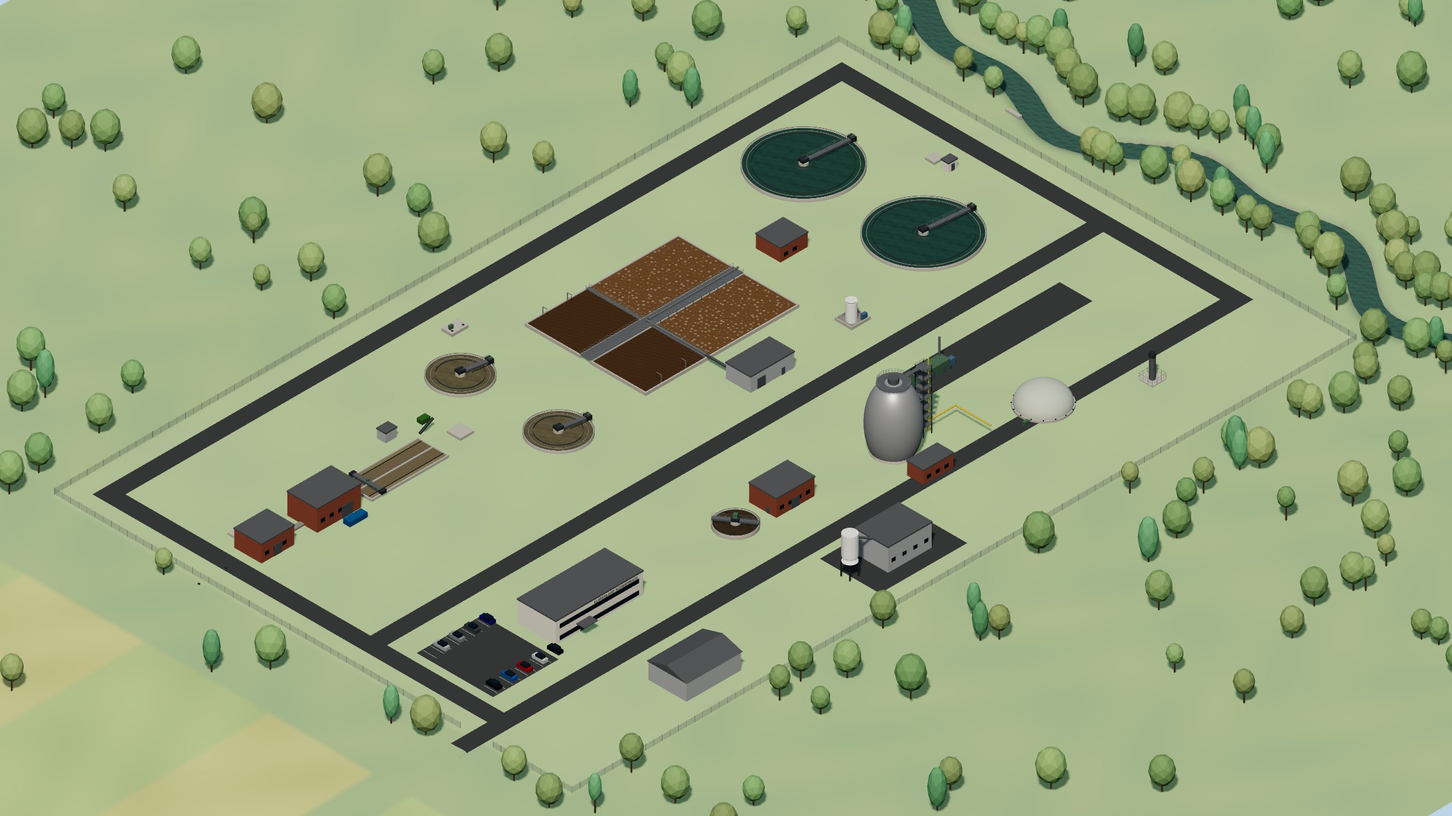
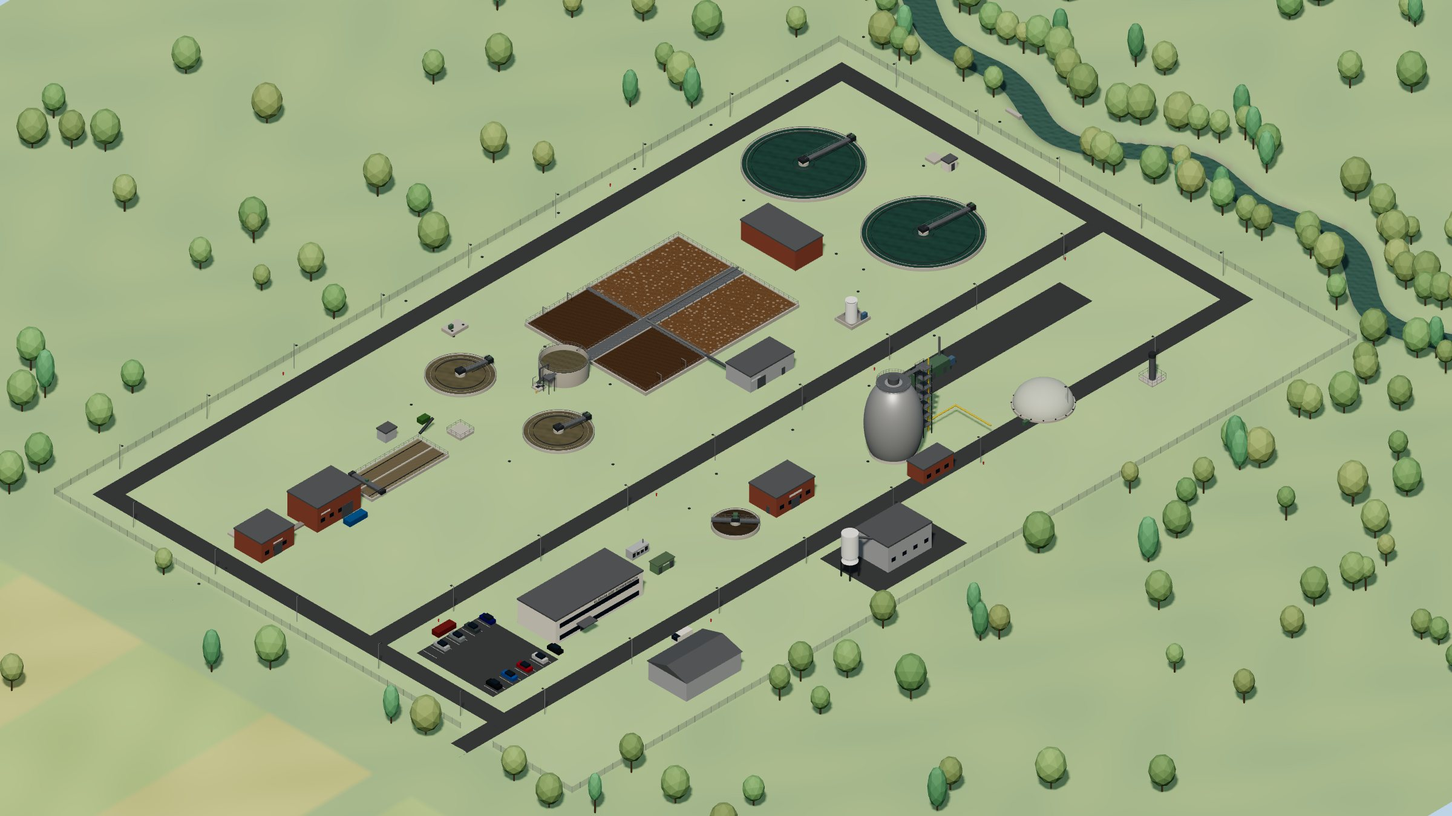
3D-Ansicht: Pumpen mit horizontaler Welle, Armaturenbeschriftung, Ausgleichsbecken AB-1, Außendetails
- RS-Pumpen als horizontale Blockpumpen (Lagerträger, Kupplung mit Schutz, Motor), Druckleitung über dem Motor
- Armaturen exemplarisch an P3.6 beschriftet (Absperrschieber, Manometer, Durchflussmesser, Rückschlagklappe, Motor)
- Innenansicht-Kamera von Süden, Bezeichnungen entzerrt
- AB-1 (D 12,6 m, Soll 3,0 m) mit P2.1-Pumpenschacht, LIC 203, Treppe; Fließwege angepasst; Link zur Füllstandsregelung
- Außen: Schilder, Beckengeländer, Mastleuchten, Hydranten, Schachtdeckel, Trafostation, Netzersatzanlage
- Isometrisches Bild aktualisiert

Claude-Session: https://claude.ai/code/session_013dAWHzMUQzXowbTMMCFfc4

diff --git a/docs/3d/index.html b/docs/3d/index.html
@@ -34,6 +34,7 @@
   #labels{position:fixed;inset:0;pointer-events:none;overflow:hidden}
   .lbl{position:absolute;left:0;top:0;transform:translate(-50%,-100%);background:#16213ed9;border:1px solid #2d4a7a;color:#fff;
        font-size:10.5px;padding:2px 5px;border-radius:4px;white-space:nowrap;pointer-events:auto;cursor:pointer;font-family:monospace}
+  .tag{position:absolute;left:0;top:0;background:#ffffffd9;color:#16213e;font-size:9.5px;padding:1px 4px;border-radius:3px;white-space:nowrap;pointer-events:none;font-family:Arial,Helvetica,sans-serif}
   .lbl.sel{background:#ffd54a;color:#16213e;border-color:#ffd54a;font-weight:bold}
   #legend{position:fixed;right:8px;display:none;background:#16213ee6;border:1px solid #2d4a7a;border-radius:8px;padding:6px 8px;font-size:11px;line-height:1.55}
   #legend i{display:inline-block;width:16px;height:4px;border-radius:2px;margin-right:6px;vertical-align:middle}
@@ -150,6 +151,11 @@ function cyl(parent, rt, rb, h, mat, x, y, z, seg = 32, open = false) {
   m.castShadow = true; m.receiveShadow = true; parent.add(m); return m;
 }
 // Instanz-Sammler (Geländer, Fenster, Pfosten …)
+function beam(parent, p0, p1, w, h, mat) {
+  const a = new THREE.Vector3(...p0), b = new THREE.Vector3(...p1), d = b.clone().sub(a), L = d.length();
+  const m = new THREE.Mesh(boxGeo, mat); m.scale.set(L, h, w); m.position.copy(a).add(b).multiplyScalar(0.5);
+  m.quaternion.setFromUnitVectors(new THREE.Vector3(1, 0, 0), d.normalize()); m.castShadow = m.receiveShadow = true; parent.add(m); return m;
+}
 const inst = {};
 function ib(key, geo, mat, x, y, z, sx, sy, sz, ry = 0, cast = true) {
   (inst[key] ||= { geo, mat, cast, list: [] }).list.push([x, y, z, sx, sy, sz, ry]);
@@ -377,6 +383,35 @@ for (let x = -122; x <= -102; x += 2.8) for (const z of [22.2, 49.8]) ib('mark',
     text: 'Absetzbecken zur Abscheidung absetzbarer organischer Stoffe. Der Primärschlamm wird vom Schildräumer in den Schlammtrichter geschoben und über P6.1 zum Voreindicker gefördert.',
     rows: [['Bauform', '2 Rundbecken, Halbbrückenräumer'], ['Durchmesser', '≈ 18 m *'], ['Primärschlamm', 'P6.1 Exzenterschneckenpumpe, drehzahlgeregelt'], ['Messung', 'QI 105 Trübung/AFS Ablauf VK']], note: true });
 }
+// Ausgleichsbecken AB-1 mit Beschickungspumpe P2.1
+{
+  const g = new THREE.Group(), cx = -8, cz = -40, r = 6.3, top = 4.6, wl = 3.0, V2 = THREE.Vector2;
+  const wall = new THREE.Mesh(new THREE.LatheGeometry([new V2(r, -0.5), new V2(r + 0.35, -0.5), new V2(r + 0.35, top), new V2(r, top), new V2(r, -0.5)], 64), M.concrete);
+  wall.position.set(cx, 0, cz); wall.castShadow = wall.receiveShadow = true; g.add(wall);
+  const w = new THREE.Mesh(new THREE.CircleGeometry(r, 64).rotateX(-Math.PI / 2), waterMat(0x6a6550, 2)); w.position.set(cx, wl, cz); g.add(w);
+  railing(circlePts(cx, cz, r + 0.17, 40), top);
+  // Treppe + Podest (West)
+  const tx = cx - r - 2.2;
+  for (const [dx, dz] of [[-1, -1], [1, -1], [1, 1], [-1, 1]]) box(g, 0.12, top, 0.12, M.steelDark, tx + dx, 0, cz + 3 + dz);
+  box(g, 2.2, 0.1, 2.2, M.grating, tx, top, cz + 3); box(g, 1.6, 0.1, 1.0, M.grating, tx + 1.6, top, cz + 3);
+  beam(g, [tx, 0.1, cz - 1.6], [tx, top, cz + 1.9], 1.0, 0.12, M.grating);
+  railing([[tx - 1.1, cz + 4.1], [tx + 1.1, cz + 4.1]], top); railing([[tx - 0.55, cz - 1.6], [tx - 0.55, cz + 1.9]], 0.1, 1.0);
+  // LIC 203 – Ultraschallsonde am Ausleger
+  box(g, 2.0, 0.12, 0.12, M.galv, cx + r - 0.6, top + 0.5, cz); box(g, 0.12, 0.6, 0.12, M.galv, cx + r + 0.2, top, cz);
+  const so = cyl(g, 0.14, 0.14, 0.3, std(0x2c3e50), cx + r - 1.5, top + 0.2, cz, 16);
+  box(g, 0.3, 0.35, 0.18, std(0xd9c27a), cx + r + 0.6, top - 1.2, cz, 0, false);
+  // P2.1 – Pumpenschacht mit Davit, Druckleitung über die Beckenwand
+  box(g, 2.8, 0.5, 2.8, M.concrete, -17.2, 0, cz);
+  box(g, 1.2, 0.08, 1.0, M.steelDark, -17.4, 0.5, cz); box(g, 0.9, 0.08, 0.8, M.steelDark, -16.4, 0.5, cz + 0.6);
+  box(g, 0.14, 2.6, 0.14, M.galv, -18.3, 0.5, cz - 1.1); box(g, 1.3, 0.12, 0.12, M.galv, -17.7, 3.0, cz - 1.1);
+  const pp = (a, b2) => beam(g, a, b2, 0.32, 0.32, M.steel);
+  pp([-16.2, 0.5, cz - 0.6], [-16.2, top + 0.7, cz - 0.6]); pp([-16.2, top + 0.7, cz - 0.6], [cx - r + 1.2, top + 0.7, cz - 0.6]); pp([cx - r + 1.2, top + 0.7, cz - 0.6], [cx - r + 1.2, wl + 0.6, cz - 0.6]);
+  box(g, 0.5, 0.9, 0.35, std(0xd9c27a), -19.3, 0, cz + 1.2);
+  reg('ab', g, { name: 'Ausgleichsbecken AB-1', kks: 'P2.1 · LIC 203',
+    text: 'Puffert den Ablauf der Vorklärung vor der Belebung. Die drehzahlgeregelte Beschickungspumpe P2.1 hält den Füllstand über den PI-Regler LIC 203 konstant. Da der Bodenablauf zur Belebung vom Wasserstand abhängt, sorgt ein konstanter Füllstand für eine gleichmäßige Beschickung der Belebung und schützt die Nachklärung vor hydraulischer Überlastung.',
+    rows: [['Bauform', 'Rundbecken, D = 12,6 m'], ['Füllstand', 'Sollwert 3,0 m, LIC 203 (PI-Regler)'], ['Beschickung', 'P2.1 Tauchmotorpumpe (KP), FU, ~500 m³/h'], ['Ablauf', 'Bodenablauf zur Belebung (Freigefälle)'], ['Wandhöhe', '≈ 4,6 m *']], note: true,
+    link: ['https://mein-hsbk.github.io/Fuellstandsregelung/', 'Simulation Füllstandsregelung öffnen ▸'] });
+}
 // Mischwasserabschlag
 {
   const g = new THREE.Group();
@@ -457,7 +492,7 @@ scene.add(bubbleMesh);
     rows: [['Bauform', '2 Rundbecken, Halbbrückenräumer, zentraler Einlauf'], ['Durchmesser', '≈ 32 m *'], ['Messung', 'LI 401 Schlammspiegel']], note: true });
 }
 // Rücklaufschlammpumpwerk – mit Innenansicht (Dach abnehmbar)
-const RSI = { subs: [], pick: [], low: [], roof: null, eq: null };
+const RSI = { subs: [], pick: [], low: [], roof: null, eq: null, tags: [] };
 {
   const g = new THREE.Group(), cx = 72, cz = -40, W = 10, D = 20, Hh = 6.2, t = 0.3;
   box(g, W, 0.12, D, M.concreteDark, cx, 0, cz, 0, false);
@@ -493,7 +528,7 @@ const RSI = { subs: [], pick: [], low: [], roof: null, eq: null };
     comps[id] = { id, group: grp, ...info, sub: true, short: label, center: new THREE.Vector3(c.x, 0, c.z), anchor: anchor || new THREE.Vector3(c.x, b.max.y + 0.35, c.z), radius: Math.max(s.x, s.z) / 2 };
     RSI.subs.push(id);
   };
-  const yS = 0.45, xP = cx + 0.4, xSS = cx + 3.4, xDS = cx - 3.6, yD = 2.4;
+  const yS = 0.75, xP = cx + 0.4, xSS = cx + 3.4, xDS = cx - 3.6, yD = 2.4;
   // Saug- und Drucksammler
   pipe(eq, [xSS, yS, cz - 9.6], [xSS, yS, cz + 8.0], 0.17);
   for (const z of [cz - 9.0, cz + 7.4]) pipe(eq, [xSS, yS, z], [cx + W / 2 + 0.6, yS, z], 0.17);
@@ -511,38 +546,46 @@ const RSI = { subs: [], pick: [], low: [], roof: null, eq: null };
       text: 'Magnetisch-induktiver Durchflussmesser im Drucksammler. Er misst den gesamten Rücklaufschlammstrom und liefert den Istwert für die Stufenschaltung.',
       rows: [['Messprinzip', 'MID (magnetisch-induktiv)'], ['Einbauort', 'Drucksammler, vor Abgang zur Belebung'], ['Verwendung', 'Istwert RS-Strom → Stufenschaltung']] });
   }
-  // Pumpen P3.1–P3.6
-  const RUN = [true, true, true, true, false, false];
+  // Pumpen P3.1–P3.6 (horizontale Welle, trocken aufgestellt)
+  const RUN = [true, true, true, true, false, false], sh = yS, yH = 1.75;
+  const guardM = new THREE.MeshStandardMaterial({ color: 0xe0a020, transparent: true, opacity: 0.4, roughness: 0.6 }), midM = std(0x3d5a73, { r: .5, m: .3 });
   for (let i = 0; i < 6; i++) {
     const z = cz - 6.0 + i * 2.5, p = new THREE.Group(), id = `rs_p3${i + 1}`;
-    box(p, 1.1, 0.12, 1.0, M.steelDark, xP, 0.12, z);                                            // Grundrahmen
-    cyl(p, 0.42, 0.44, 0.42, ksb, xP, 0.24, z, 28);                                              // Spiralgehäuse
-    pipe(p, [xP + 0.3, yS, z], [xSS - 0.1, yS, z], 0.085);                                       // Saugleitung DN 125
-    flange(p, [xP + 0.5, yS, z], 0, 0.13); valve(p, cx + 2.3, yS, z); gauge(p, cx + 1.7, yS + 0.08, z);
-    pipe(p, [xP - 0.3, yS, z], [cx - 2.9, yS, z], 0.07);                                         // Druckleitung DN 100
-    flange(p, [xP - 0.5, yS, z], 0, 0.12); gauge(p, xP - 0.75, yS + 0.06, z);
-    pipe(p, [cx - 0.75, yS, z], [cx - 0.35, yS, z], 0.12, std(0x3d5a73, { r: .5, m: .3 }));     // FI 41x
-    box(p, 0.15, 0.2, 0.18, std(0x2c3e50), cx - 0.55, yS + 0.1, z, 0, false);
-    box(p, 0.32, 0.3, 0.28, M.steelDark, cx - 1.5, yS - 0.15, z);                                // Rückschlagklappe
-    box(p, 0.08, 0.08, 0.3, M.steel, cx - 1.42, yS + 0.18, z + 0.18, 0, false);
-    valve(p, cx - 2.25, yS, z);
-    pipe(p, [cx - 2.9, yS, z], [cx - 2.9, yD, z], 0.07); pipe(p, [cx - 2.9, yD, z], [xDS, yD, z], 0.07);
-    for (const [dx, dz] of [[-.2, -.2], [.2, -.2], [.2, .2], [-.2, .2]]) box(p, 0.05, 0.45, 0.05, ksb, xP + dx, 0.66, z + dz, 0, false); // Laterne
-    const cpl = new THREE.Group(); cpl.position.set(xP, 0.88, z); p.add(cpl);
-    const cm = new THREE.Mesh(new THREE.CylinderGeometry(0.12, 0.12, 0.28, 14), M.steel); cpl.add(cm);
-    const mk = new THREE.Mesh(boxGeo, std(0xe6c229)); mk.scale.set(0.05, 0.26, 0.04); mk.position.set(0.12, 0, 0); cpl.add(mk);
+    box(p, 3.4, 0.14, 0.75, M.steelDark, cx - 0.05, 0.12, z);                                   // Grundrahmen
+    pipe(p, [cx + 0.86, sh, z], [cx + 1.26, sh, z], 0.44, ksb);                                  // Spiralgehäuse
+    box(p, 0.4, sh - 0.26, 0.5, ksb, cx + 1.06, 0.26, z, 0, false);                              // Gehäusefuß
+    pipe(p, [cx + 1.26, sh, z], [cx + 1.5, sh, z], 0.11, ksb); flange(p, [cx + 1.52, sh, z], 0, 0.16);
+    pipe(p, [cx + 1.55, sh, z], [xSS - 0.1, sh, z], 0.085);                                    // Saugleitung DN 125
+    valve(p, cx + 2.55, sh, z); gauge(p, cx + 1.95, sh + 0.08, z);
+    pipe(p, [cx + 0.86, sh, z], [cx + 0.34, sh, z], 0.17, ksb);                                  // Lagerträger
+    box(p, 0.3, sh - 0.26 - 0.17, 0.4, ksb, cx + 0.55, 0.26, z, 0, false);
+    const cpl = new THREE.Group(); cpl.position.set(cx + 0.12, sh, z); p.add(cpl);              // Kupplung
+    const cm = new THREE.Mesh(new THREE.CylinderGeometry(0.12, 0.12, 0.24, 14), M.steel); cm.rotation.z = Math.PI / 2; cpl.add(cm);
+    const mk = new THREE.Mesh(boxGeo, std(0xe6c229)); mk.scale.set(0.22, 0.04, 0.05); mk.position.set(0, 0.12, 0); cpl.add(mk);
     if (RUN[i]) spinRS.push(cpl);
-    cyl(p, 0.24, 0.24, 0.06, ksb, xP, 1.08, z, 20);
-    cyl(p, 0.31, 0.31, 0.68, mot, xP, 1.14, z, 24);                                              // Motor 7,5 kW
-    cyl(p, 0.29, 0.29, 0.14, M.steelDark, xP, 1.82, z, 24);                                      // Lüfterhaube
-    box(p, 0.2, 0.18, 0.22, mot, xP - 0.38, 1.5, z, 0, false);                                   // Klemmenkasten
-    box(p, 0.02, 0.12, 0.2, M.galv, xP + 0.32, 1.42, z, 0, false);                               // Typenschild
-    box(p, 0.08, 1.15, 0.08, M.steelDark, cx + 1.25, 0, z + 0.65, 0, false);                     // Vor-Ort-Steuerstelle
-    box(p, 0.28, 0.36, 0.18, std(0xd9c27a), cx + 1.25, 1.15, z + 0.65, 0, false);
-    const lmp = new THREE.Mesh(new THREE.SphereGeometry(0.05, 10, 8), RUN[i] ? lampOn : lampOff); lmp.position.set(cx + 1.25, 1.42, z + 0.75); p.add(lmp);
-    subReg(id, p, `P3.${i + 1}`, null, { name: `Rücklaufschlammpumpe P3.${i + 1}`, kks: `P3.${i + 1} · FI 41${i + 1} · PI 42${i + 1} / PI 43${i + 1}`,
-      text: 'Trocken aufgestellte Freistromradpumpe mit Laterne und aufgesetztem Normmotor. Saugseitig Absperrschieber, druckseitig Durchflussmessung, Rückschlagklappe und Absperrschieber; Manometer vor und hinter der Pumpe.',
+    const gd = new THREE.Mesh(boxGeo, guardM); gd.scale.set(0.42, 0.38, 0.38); gd.position.set(cx + 0.12, sh, z); p.add(gd); // Kupplungsschutz
+    pipe(p, [cx - 0.1, sh, z], [cx - 0.88, sh, z], 0.3, mot);                                    // Motor 7,5 kW
+    pipe(p, [cx - 0.88, sh, z], [cx - 1.04, sh, z], 0.28, M.steelDark);                          // Lüfterhaube
+    box(p, 0.6, sh - 0.3 - 0.26, 0.5, mot, cx - 0.5, 0.26, z, 0, false);                         // Motorfüße
+    box(p, 0.22, 0.18, 0.22, mot, cx - 0.42, sh + 0.28, z, 0, false);                            // Klemmenkasten
+    box(p, 0.2, 0.12, 0.02, M.galv, cx - 0.55, sh - 0.06, z + 0.31, 0, false);                   // Typenschild
+    pipe(p, [cx + 1.06, sh + 0.4, z], [cx + 1.06, yH, z], 0.07); flange(p, [cx + 1.06, sh + 0.5, z], 1, 0.12); // Druckstutzen
+    pipe(p, [cx + 1.06, yH, z], [cx - 2.9, yH, z], 0.07);                                        // Druckleitung DN 100
+    gauge(p, cx + 0.8, yH + 0.06, z);
+    pipe(p, [cx + 0.15, yH, z], [cx + 0.55, yH, z], 0.12, midM); box(p, 0.15, 0.2, 0.18, std(0x2c3e50), cx + 0.35, yH + 0.1, z, 0, false); // FI 41x
+    box(p, 0.32, 0.3, 0.28, M.steelDark, cx - 0.7, yH - 0.15, z); box(p, 0.08, 0.08, 0.3, M.steel, cx - 0.62, yH + 0.18, z + 0.18, 0, false); // RSK
+    valve(p, cx - 1.6, yH, z);
+    pipe(p, [cx - 2.9, yH, z], [cx - 2.9, yD, z], 0.07); pipe(p, [cx - 2.9, yD, z], [xDS, yD, z], 0.07);
+    box(p, 0.08, 1.15, 0.08, M.steelDark, cx + 2.05, 0, z + 0.95, 0, false);                     // Vor-Ort-Steuerstelle
+    box(p, 0.28, 0.36, 0.18, std(0xd9c27a), cx + 2.05, 1.15, z + 0.95, 0, false);
+    const lmp = new THREE.Mesh(new THREE.SphereGeometry(0.05, 10, 8), RUN[i] ? lampOn : lampOff); lmp.position.set(cx + 2.05, 1.42, z + 1.05); p.add(lmp);
+    subReg(id, p, `P3.${i + 1}`, new THREE.Vector3(cx - 1.35, 0.9, z), { name: `Rücklaufschlammpumpe P3.${i + 1}`, kks: `P3.${i + 1} · FI 41${i + 1} · PI 42${i + 1} / PI 43${i + 1}`,
+      text: 'Trocken aufgestellte Freistromradpumpe mit horizontaler Welle, Lagerträger, Kupplung und Normmotor auf gemeinsamem Grundrahmen. Saugseitig Absperrschieber, druckseitig Durchflussmessung, Rückschlagklappe und Absperrschieber; Manometer vor und hinter der Pumpe.',
       rows: [['Pumpe', 'KSB Sewabloc F 100-252, Laufrad ø235'], ['Auslegung', '95 m³/h bei 11,2 m · Betrieb ~80 m³/h bei ~12 m'], ['Motor', 'VEM K21R 132 M4, 7,5 kW, 1455 1/min, IE3'], ['Anlauf', 'Stern-Dreieck, Festdrehzahl'], ['Anschlüsse', 'DN 125 saug / DN 100 druck'], ['Im Bild', RUN[i] ? 'in Betrieb (Beispielzustand)' : 'Bereitschaft (Beispielzustand)']] });
+    if (i === 5) RSI.tags = [
+      ['Absperrschieber', cx + 2.55, sh + 1.0, z], ['Manometer', cx + 1.95, sh + 0.42, z], ['Motor', cx - 0.5, sh + 0.35, z + 0.3],
+      ['Manometer', cx + 0.8, yH + 0.5, z], ['Durchflussmesser', cx + 0.35, yH + 1.05, z], ['Rückschlagklappe', cx - 0.7, yH + 0.3, z + 0.2],
+      ['Absperrschieber', cx - 1.6, yH + 0.85, z]].map(([t, x, y, zz]) => ({ t, v: new THREE.Vector3(x, y, zz) }));
   }
   // P5.1 – Exzenterschneckenpumpe Überschussschlamm
   {
@@ -557,7 +600,7 @@ const RSI = { subs: [], pick: [], low: [], roof: null, eq: null };
     pipe(f, [xSS, yS, z], [xSS - 0.4, yS, z], 0.1); pipe(f, [xSS - 0.4, yS, z], [xSS - 0.4, 1.6, z], 0.1);
     pipe(f, [xSS - 0.4, 1.6, z], [cx - 0.5, 1.6, z], 0.1); pipe(f, [cx - 0.5, 1.6, z], [cx - 0.5, 0.76, z], 0.1);
     pipe(f, [cx + 1.5, 0.7, z], [cx + 1.5, 2.9, z], 0.08); pipe(f, [cx + 1.5, 2.9, z], [cx + 1.5, 2.9, cz - D / 2 - 0.6], 0.08);
-    subReg('rs_p51', f, 'P5.1', null, { name: 'Überschussschlammpumpe P5.1', kks: 'P5.1',
+    subReg('rs_p51', f, 'P5.1', new THREE.Vector3(cx - 0.5, 1.1, cz - 8.7), { name: 'Überschussschlammpumpe P5.1', kks: 'P5.1',
       text: 'Exzenterschneckenpumpe zum Abzug des Überschussschlamms. Die Fördermenge wird über die Drehzahl eingestellt; der Schlamm wird zum Voreindicker VE-1 gefördert.',
       rows: [['Pumpe', 'Seepex BN 52-6L (Exzenterschnecke)'], ['Antrieb', 'Getriebemotor, drehzahlgeregelt (FU)'], ['Ziel', 'Voreindicker VE-1']] });
   }
@@ -580,7 +623,7 @@ const RSI = { subs: [], pick: [], low: [], roof: null, eq: null };
     box(f, 0.5, 0.35, 0.6, std(0xd9a62a, { r: .5, m: .3 }), xP, 4.95, cz - 1.2);
     box(f, 0.03, 1.6, 0.03, M.steelDark, xP, 3.35, cz - 1.2, 0, false);
     const hk = new THREE.Mesh(new THREE.TorusGeometry(0.08, 0.025, 6, 12, Math.PI * 1.4), M.steelDark); hk.position.set(xP, 3.3, cz - 1.2); f.add(hk);
-    subReg('rs_kran', f, 'Kran', new THREE.Vector3(xP, 6.0, cz + 6), { name: 'Laufkatze / Hebezeug', kks: 'Kranbahn über Pumpenreihe',
+    subReg('rs_kran', f, 'Kran', new THREE.Vector3(xP, 5.9, cz - 9.6), { name: 'Laufkatze / Hebezeug', kks: 'Kranbahn über Pumpenreihe',
       text: 'Elektrokettenzug auf einer Kranbahn über der Pumpenreihe. Motor und Laufradeinheit können zur Wartung angehoben und ausgebaut werden, ohne die Rohrleitungen zu demontieren (Back-Pull-Out).',
       rows: [['Einsatz', 'Wartung, Laufrad-/Motortausch'], ['Hinweis', 'Prüfung nach DGUV Vorschrift 52/54']] });
   }
@@ -740,26 +783,87 @@ const RSI = { subs: [], pick: [], low: [], roof: null, eq: null };
   });
   crown.castShadow = trunk.castShadow = true; scene.add(crown, trunk);
 }
+
+// ------------------------------------------------------------------ Außendetails
+function sign(txt, x, y, z, ry = 0, w = 3.4) {
+  const cv = document.createElement('canvas'); cv.width = 512; cv.height = 80; const c = cv.getContext('2d');
+  c.fillStyle = '#f4f4f0'; c.fillRect(0, 0, 512, 80); c.strokeStyle = '#2b3a4a'; c.lineWidth = 6; c.strokeRect(3, 3, 506, 74);
+  c.fillStyle = '#2b3a4a'; c.font = 'bold 40px Arial'; c.textAlign = 'center'; c.textBaseline = 'middle'; c.fillText(txt, 256, 42);
+  const t = new THREE.CanvasTexture(cv); t.colorSpace = THREE.SRGBColorSpace;
+  const m = new THREE.Mesh(new THREE.PlaneGeometry(w, w * 80 / 512), new THREE.MeshStandardMaterial({ map: t, roughness: .6 }));
+  m.position.set(x, y, z); m.rotation.y = ry; scene.add(m);
+}
+sign('Zulaufpumpwerk', -118, 4.2, -34.94);
+sign('Rechengebäude', -101, 5.2, -34.44);
+sign('Gebläsestation', 22, 3.6, 0.56);
+sign('Rücklaufschlammpumpwerk', 77.07, 4.9, -40, Math.PI / 2, 4.2);
+sign('Gerätehaus Schlammbehandlung', -8, 4.4, 45.06, 0, 4.6);
+sign('Schlammentwässerung', -4, 6.2, 70.94, Math.PI, 4.0);
+sign('Faulung', 33.56, 3.4, 58.5, Math.PI / 2, 2.6);
+// Beckengeländer
+railing([[0, -62], [56, -62], [56, -18], [0, -18], [0, -62]], 1.0);
+railing([[-84, -45.5], [-56, -45.5], [-56, -34.5], [-84, -34.5], [-84, -45.5]], 0.8);
+railing([[-48.5, -42.5], [-43.5, -42.5], [-43.5, -37.5], [-48.5, -37.5], [-48.5, -42.5]], 0.8);
+// Mastleuchten entlang der Betriebsstraßen
+{
+  const pts = [];
+  for (let x = -120; x <= 130; x += 32) pts.push([x, -91, 0], [x + 16, 15.5, Math.PI], [x, 65, Math.PI]);
+  for (let z = -70; z <= 50; z += 30) pts.push([-136, z, Math.PI / 2], [144, z, -Math.PI / 2]);
+  for (const [x, z, ry] of pts) {
+    ib('lpole', cylGeo, M.galv, x, 4, z, 0.16, 8, 0.16, 0);
+    const dx = Math.sin(ry) * 0.8, dz = Math.cos(ry) * 0.8;
+    ib('larm', boxGeo, M.galv, x + dx * 0.5, 7.9, z + dz * 0.5, 0.08 + Math.abs(dx), 0.08, 0.08 + Math.abs(dz), 0, false);
+    ib('lhead', boxGeo, M.steelDark, x + dx, 7.85, z + dz, 0.5, 0.14, 0.5, 0, false);
+  }
+}
+// Hydranten
+for (const [x, z] of [[-110, 16], [-30, 16], [50, 16], [120, 16], [-60, 66], [40, 66], [-60, -91], [60, -91]]) {
+  ib('hyd', cylGeo, std(0xc0392b, { r: .5 }), x, 0.45, z, 0.3, 0.9, 0.3, 0);
+  ib('hydc', boxGeo, std(0xc0392b, { r: .5 }), x, 0.65, z, 0.5, 0.14, 0.14, 0, false);
+}
+// Trafostation + Netzersatzanlage
+{
+  const g = scene;
+  box(g, 6, 2.8, 3, std(0x6f8a6a, { r: .7 }), -52, 0, 40); box(g, 6.4, 0.2, 3.4, std(0x5b6f57), -52, 2.8, 40);
+  for (const x of [-54, -50]) box(g, 1.2, 2.1, 0.06, M.door, x, 0, 41.53, 0, false);
+  box(g, 6.1, 2.6, 2.5, M.sheet, -52, 0, 31); cyl(g, 0.15, 0.15, 1.2, M.steel, -50, 2.6, 31, 10);
+  for (let x = -54.5; x <= -50; x += 1.5) box(g, 1.0, 1.2, 0.05, M.steelDark, x, 0.9, 32.27, 0, false);
+  sign('Trafostation', -52, 2.2, 41.57, 0, 2.2); sign('Netzersatzanlage', -52, 2.05, 32.3, 0, 2.6);
+}
+// Probenehmer Zulauf, Dienstfahrzeug, Container
+box(scene, 0.9, 1.6, 0.7, std(0xd5d8db, { r: .6, m: .2 }), -111.3, 0, -46.5);
+box(scene, 5.6, 2.1, 2.1, M.plaster, -71, 0.4, 66.5); box(scene, 1.4, 1.1, 2.0, M.window, -73.3, 1.4, 66.5, 0, false);
+for (const x of [-72.8, -69.2]) for (const z of [65.5, 67.5]) { const w = cyl(scene, 0.38, 0.38, 0.25, M.rubber, x, 0, z, 12); w.rotation.x = Math.PI / 2; w.position.y = 0.38; }
+box(scene, 6.5, 1.6, 2.5, std(0x8a3324, { r: .6, m: .3 }), -112, 0, 20);
 flushInst();
 
 // ------------------------------------------------------------------ Fließwege (Overlay)
 const FLOW = {
-  aw: { n: 'Abwasser', c: 0xa6814f, y: 2.2, p: [[[-160, -40], [-46, -40]], [[-46, -40], [-46, -58], [-37, -58]], [[-46, -40], [-46, -22], [-37, -22]], [[-19, -58], [-6, -58], [-6, -52], [0, -52]], [[-19, -22], [-6, -22], [-6, -28], [0, -28]], [[56, -52], [80, -52], [80, -62], [102, -62]], [[56, -28], [80, -28], [80, -18], [102, -18]]] },
+  aw: { n: 'Abwasser', c: 0xa6814f, y: 2.2, p: [[[-160, -40], [-46, -40]], [[-46, -40], [-46, -58], [-37, -58]], [[-46, -40], [-46, -22], [-37, -22]], [[-19, -58], [-16.5, -58], [-16.5, -40]], [[-19, -22], [-16.5, -22], [-16.5, -40]], [[-16.5, -40, 5.3], [-8, -40, 5.3]], [[-8, -40], [-3, -40], [-3, -52], [0, -52]], [[-3, -40], [-3, -28], [0, -28]], [[56, -52], [80, -52], [80, -62], [102, -62]], [[56, -28], [80, -28], [80, -18], [102, -18]]] },
   ab: { n: 'Ablauf (gereinigt)', c: 0x2fa8e0, y: 2.2, p: [[[118, -62], [124, -62], [124, -40], [creekX(-40) - 4, -40]], [[118, -18], [124, -18], [124, -40]]] },
   rs: { n: 'Rücklaufschlamm', c: 0xe17055, y: 2.9, p: [[[102, -62], [76, -46], [72, -40]], [[102, -18], [76, -34], [72, -40]], [[72, -40], [2, -40]], [[2, -40], [2, -52]], [[2, -40], [2, -28]]] },
   lu: { n: 'Prozessluft', c: 0x9ad8ff, y: 3.5, p: [[[28, -4], [28, -40]], [[28, -40], [52, -40]], [[34, -40], [34, -52]], [[34, -40], [34, -28]], [[46, -40], [46, -52]], [[46, -40], [46, -28]]] },
   fm: { n: 'Fällmittel FeCl₃', c: 0xb98be0, y: 3.0, p: [[[62, -4], [62, -38], [55, -38]]] },
   sl: { n: 'Schlamm (PS/ÜS/DS/FS)', c: 0x7a5233, y: 2.6, p: [[[-28, -58], [-28, 34]], [[72, -40], [72, 20], [-22, 20], [-24, 34]], [[-25, 40], [-8, 40], [28, 45]], [[28, 45], [12, 62], [-4, 77]]] },
   gs: { n: 'Faulgas', c: 0xf1c40f, y: 4.0, p: [[[28, 45], [70, 58]], [[70, 58], [58, 28]], [[70, 58], [98, 70]]] },
-  as: { n: 'Mischwasserabschlag', c: 0xd63031, y: 2.2, p: [[[-14, -40], [-14, -92], [creekX(-92) - 4, -92]]] }
+  as: { n: 'Mischwasserabschlag', c: 0xd63031, y: 2.2, p: [[[-16.5, -44], [-16.5, -74], [-14, -74], [-14, -92], [creekX(-92) - 4, -92]]] }
 };
+{
+  const mh = [];
+  for (const k of ['aw', 'ab', 'rs', 'sl', 'as']) for (const line of FLOW[k].p) for (let i = 0; i < line.length - 1; i++) {
+    const [x0, z0] = line[i], [x1, z1] = line[i + 1], L = Math.hypot(x1 - x0, z1 - z0);
+    for (let t = 0; t < L; t += 28) { const x = x0 + (x1 - x0) * t / L, z = z0 + (z1 - z0) * t / L; if (!mh.some(([a, b]) => Math.hypot(a - x, b - z) < 10)) mh.push([x, z]); }
+  }
+  const im = new THREE.InstancedMesh(new THREE.CylinderGeometry(0.4, 0.4, 0.06, 16), M.steelDark, mh.length), o = new THREE.Object3D();
+  mh.forEach(([x, z], i) => { o.position.set(x, 0.06, z); o.updateMatrix(); im.setMatrixAt(i, o.matrix); }); im.receiveShadow = true; scene.add(im);
+}
 const flowMats = [], flowGroup = new THREE.Group(); flowGroup.visible = false; scene.add(flowGroup);
 for (const k in FLOW) {
   const f = FLOW[k];
   for (const line of f.p) {
     const path = new THREE.CurvePath(); let L = 0;
     for (let i = 0; i < line.length - 1; i++) {
-      const a = new THREE.Vector3(line[i][0], f.y, line[i][1]), b = new THREE.Vector3(line[i + 1][0], f.y, line[i + 1][1]);
+      const a = new THREE.Vector3(line[i][0], line[i][2] ?? f.y, line[i][1]), b = new THREE.Vector3(line[i + 1][0], line[i + 1][2] ?? f.y, line[i + 1][1]);
       path.add(new THREE.LineCurve3(a, b)); L += a.distanceTo(b);
     }
     const mat = new THREE.ShaderMaterial({
@@ -775,8 +879,8 @@ const legend = document.getElementById('legend');
 legend.innerHTML = Object.values(FLOW).map(f => `<div><i style="background:#${new THREE.Color(f.c).getHexString()}"></i>${f.n}</div>`).join('') + '<div style="color:#8395a7;margin-top:3px">schematisch, Leitungen liegen erdverlegt</div>';
 
 // ------------------------------------------------------------------ UI: Labels, Auswahl, Rundgang
-const TOUR = ['zpw', 'rechen', 'sandfang', 'vk', 'abschlag', 'bb', 'geblaese', 'fecl3', 'nk', 'rs', 'ablauf', 've', 'ft', 'gs', 'bhkw', 'fackel', 'sew', 'bg', 'bach'];
-const SHORT = { zpw: 'Hebewerk', rechen: 'Rechen', sandfang: 'Sandfang', vk: 'VK1/VK2', abschlag: 'SV-201', bb: 'Belebung', geblaese: 'Gebläse', fecl3: 'FeCl₃', nk: 'NK1/NK2', rs: 'RS-PW', ablauf: 'Ablauf', ve: 'VE-1', ft: 'FT-1', gs: 'GS-1', bhkw: 'BHKW', fackel: 'F6.1', sew: 'Z6.1/SI6.1', bg: 'Betriebsgeb.', bach: 'Schwierbach' };
+const TOUR = ['zpw', 'rechen', 'sandfang', 'vk', 'abschlag', 'ab', 'bb', 'geblaese', 'fecl3', 'nk', 'rs', 'ablauf', 've', 'ft', 'gs', 'bhkw', 'fackel', 'sew', 'bg', 'bach'];
+const SHORT = { zpw: 'Hebewerk', rechen: 'Rechen', sandfang: 'Sandfang', vk: 'VK1/VK2', abschlag: 'SV-201', ab: 'AB-1', bb: 'Belebung', geblaese: 'Gebläse', fecl3: 'FeCl₃', nk: 'NK1/NK2', rs: 'RS-PW', ablauf: 'Ablauf', ve: 'VE-1', ft: 'FT-1', gs: 'GS-1', bhkw: 'BHKW', fackel: 'F6.1', sew: 'Z6.1/SI6.1', bg: 'Betriebsgeb.', bach: 'Schwierbach' };
 const labelBox = document.getElementById('labels');
 for (const id of TOUR) {
   const el = document.createElement('div'); el.className = 'lbl'; el.textContent = SHORT[id];
@@ -788,17 +892,19 @@ for (const id of RSI.subs) {
   el.addEventListener('click', e => { e.stopPropagation(); select(id, false); });
   labelBox.appendChild(el); comps[id].el = el;
 }
+for (const tg of RSI.tags) { tg.el = document.createElement('div'); tg.el.className = 'tag'; tg.el.textContent = tg.t; tg.el.style.display = 'none'; labelBox.appendChild(tg.el); }
 let interiorOn = false;
 function setInterior(on) {
   interiorOn = on; RSI.eq.visible = on; RSI.roof.visible = !on;
   for (const [w, h] of RSI.low) { const H2 = on ? 1.1 : h; w.scale.y = H2; w.position.y = H2 / 2; }
   for (const id of TOUR) comps[id].el.style.display = on ? 'none' : '';
   for (const id of RSI.subs) comps[id].el.style.display = on ? '' : 'none';
+  for (const tg of RSI.tags) tg.el.style.display = on ? '' : 'none';
 }
 function openInterior() {
   setInterior(true); marker.visible = false;
   const small = innerWidth / innerHeight < 0.8;
-  flyTo(new THREE.Vector3(72, 1.0, small ? -39 : -38), small ? new THREE.Vector3(51, 22, -17) : new THREE.Vector3(60, 12.5, -24), 1.6);
+  flyTo(small ? new THREE.Vector3(72, 0.5, -41) : new THREE.Vector3(71.5, 0.5, -36.5), small ? new THREE.Vector3(70, 25, -16) : new THREE.Vector3(70.5, 13.5, -20.5), 1.6);
   select('rs', false, true);
 }
 const marker = new THREE.Mesh(new THREE.RingGeometry(0.93, 1, 72).rotateX(-Math.PI / 2), new THREE.MeshBasicMaterial({ color: 0xffd54a, transparent: true, depthWrite: false }));
@@ -813,6 +919,7 @@ function select(id, fly, keepInterior) {
   for (const k in comps) comps[k].el?.classList.toggle('sel', k === id);
   marker.visible = id !== 'bach' && !(interiorOn && id === 'rs'); marker.position.set(c.center.x, c.sub ? 0.2 : 0.12, c.center.z); marker.scale.setScalar(c.sub ? c.radius + 0.4 : c.radius + 2.5);
   infoBody.innerHTML = `<h2>${c.name}</h2><div class="kks">${c.kks}</div><p>${c.text}</p><table>${c.rows.map(r => `<tr><td class="k">${r[0]}</td><td>${r[1]}</td></tr>`).join('')}</table>` +
+    (c.link ? `<p style="margin-top:8px"><a href="${c.link[0]}" target="_blank" rel="noopener" style="color:#74b9ff;font-weight:bold">${c.link[1]}</a></p>` : '') +
     (c.note ? '<div class="note">* Abmessung für die 3D-Ansicht angenommen (in der PLS-Simulation nicht festgelegt).</div>' : '') +
     (c.interior ? `<p style="margin:10px 0 0"><button class="btn" id="bInt">${interiorOn ? '⬆ Außenansicht' : '🔍 Innenansicht öffnen'}</button></p>` : '') +
     (c.sub ? '<p style="margin:10px 0 0"><button class="btn" id="bIntBack">‹ Pumpwerk</button> <button class="btn" id="bIntOut">⬆ Außenansicht</button></p>' : '');
@@ -899,7 +1006,12 @@ function tick() {
   }
   controls.update();
   renderer.render(scene, camera);
-  for (const c of spinRS) c.rotation.y += 14 * dt;
+  for (const c of spinRS) c.rotation.x += 14 * dt;
+  if (showLbl && interiorOn) for (const tg of RSI.tags) {
+    pv.copy(tg.v).project(camera);
+    if (pv.z > 1 || Math.abs(pv.x) > 1.05 || Math.abs(pv.y) > 1.05) { tg.el.style.display = 'none'; continue; }
+    tg.el.style.display = ''; tg.el.style.transform = `translate(${(pv.x * .5 + .5) * innerWidth}px,${(-pv.y * .5 + .5) * innerHeight}px) translate(-50%,-100%)`;
+  }
   if (showLbl) for (const id of (interiorOn ? RSI.subs : TOUR)) {
     const c = comps[id]; pv.copy(c.anchor).project(camera);
     if (pv.z > 1 || Math.abs(pv.x) > 1.05 || Math.abs(pv.y) > 1.05) { c.el.style.display = 'none'; continue; }
